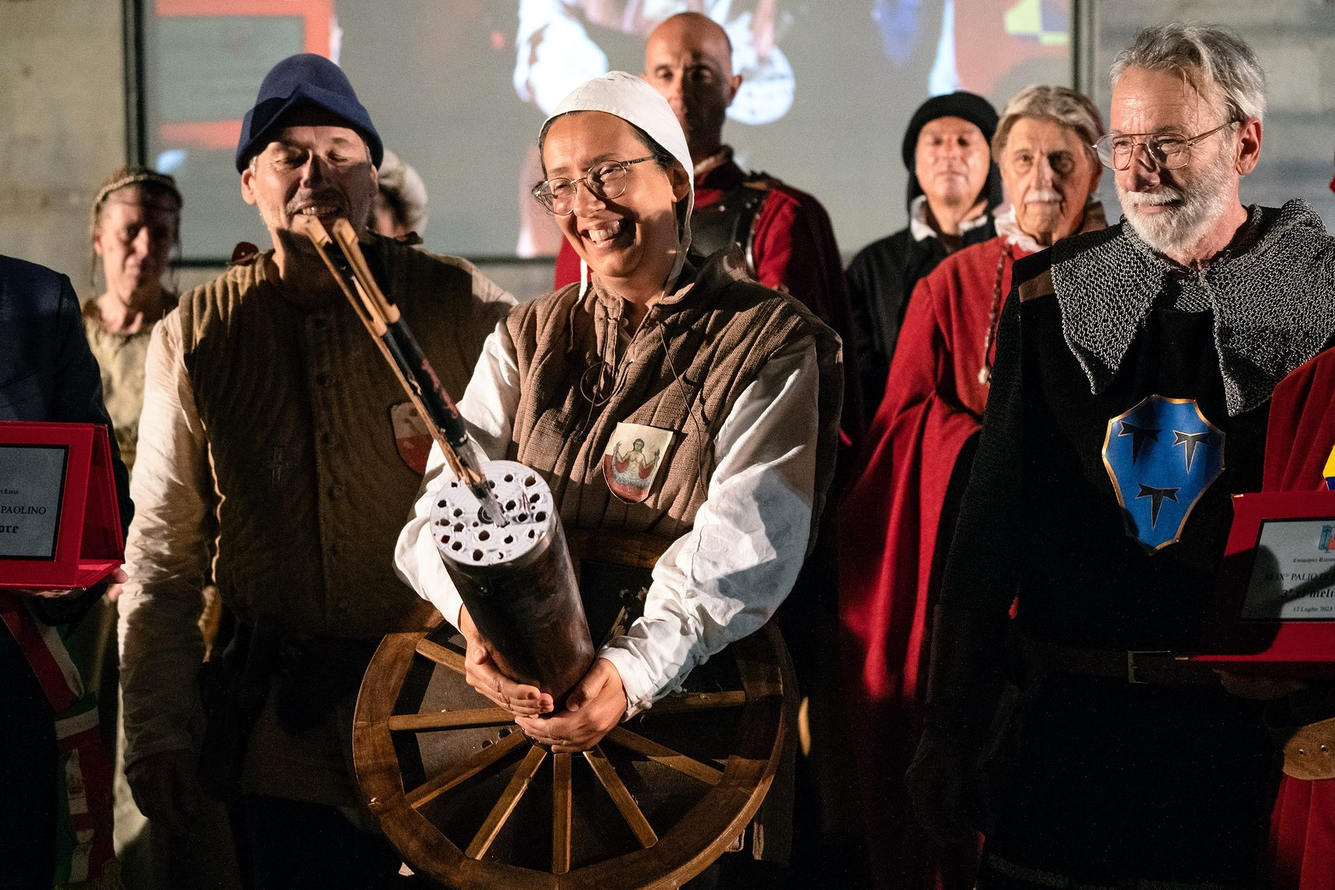
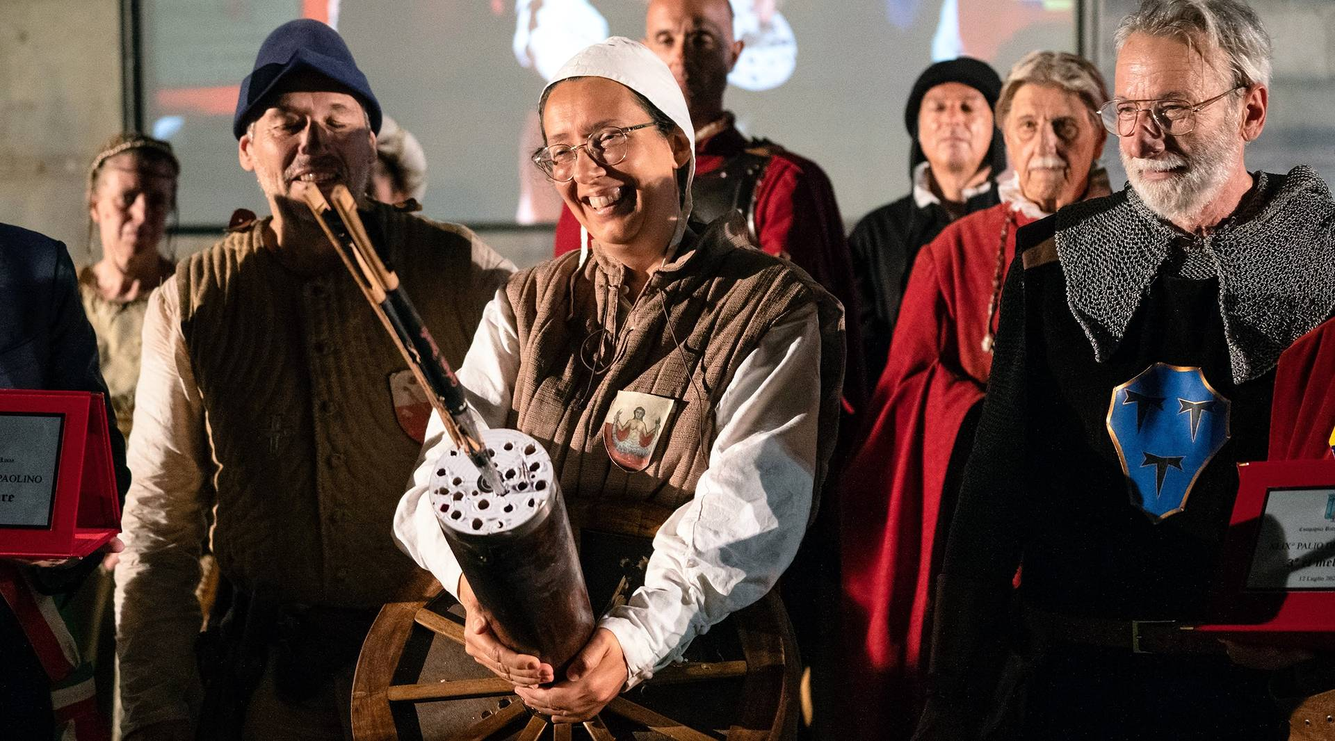
add valentina photo, reduced main photo size, add ph.er

diff --git a/_posts/2023-07-13-risultati-49mo-palio-san-paolino.md b/_posts/2023-07-13-risultati-49mo-palio-san-paolino.md
@@ -5,7 +5,7 @@ image: /assets/images/2023/230712-cristina-fenili-49mo-psp-prima-et-meliore.jpg
 categories: 
   - albo
 author:
-  name: Jean-Pierre du Croissant de Lune
+  name: Jean-Pierre du Croissant de Lune, Andrea Morandi(foto)
 ---
 
 In questa giornata si è disputata la 49ma edizione del Palio di San Paolino patrono di Lucca.
@@ -13,8 +13,13 @@ Protagonisti le Contrade di San Paolino (CSP) e la Compagnia Balestrieri di Lucc
 
 <!-- more -->
 
-Una grande performance della nostra **Cristina Fenili** la quale ha tirato alla prima tornata di tiro e che con la sua verretta è riuscita a chiudere la visuale al centro del bersaglio, ottenendo così un meritatissimo primo posto assieme al collare d'argento raffigurante l'effigie di San Paolino, e permettendo alle CSP di prendere lo splendido Palio realizzato quest'anno dall'artista **Elisa Tamburrini**.
+Una grande performance della nostra **Cristina Fenili** la quale ha tirato alla prima tornata di tiro e che con la sua verretta è riuscita a chiudere la visuale al centro del bersaglio, ottenendo così un meritatissimo primo posto assieme al collare d'argento raffigurante l'effigie di San Paolino, e permettendo alle CSP di prendere lo splendido Palio realizzato quest'anno dall'artista *Elisa Tamburrini*.
 A seguire la nostra **Valentina Fatiguso** che pur tirando alla nona tornata con un bersaglio già pieno di 32 verrette delle tornate precedenti, è riuscita a strappare uno splendido secondo posto.
+
+<figure class="align-center">
+    <img src="/assets/images/2023/230712-valentina-fatiguso-49mo-psp-seconda-et-meliore.jpg" alt="49mo palio san paolino valentina fatiguso seconda et meliore">
+  <figcaption>Valentina Fatiguso Seconda et Meliore</figcaption>
+</figure>
 
 Il giorno prima (11 Luglio), dopo il tradizionale corteo storico per la Luminara di San Paolino che si è snodato lungo le vie cittadine per poi terminare in Piazzale Arrigoni, si è proceduto poi con il sorteggio per determinare l'ordine di tiro con cui i balestrieri (61 in totale) si sono succeduti al tiro. Le CSP hanno acconsentito alla richiesta della CBL affinché il sorteggio fosse disgiunto, in modo tale che ad ogni tornata di tiro fossero presenti sempre due componenti per ciascuna squadra.
 
